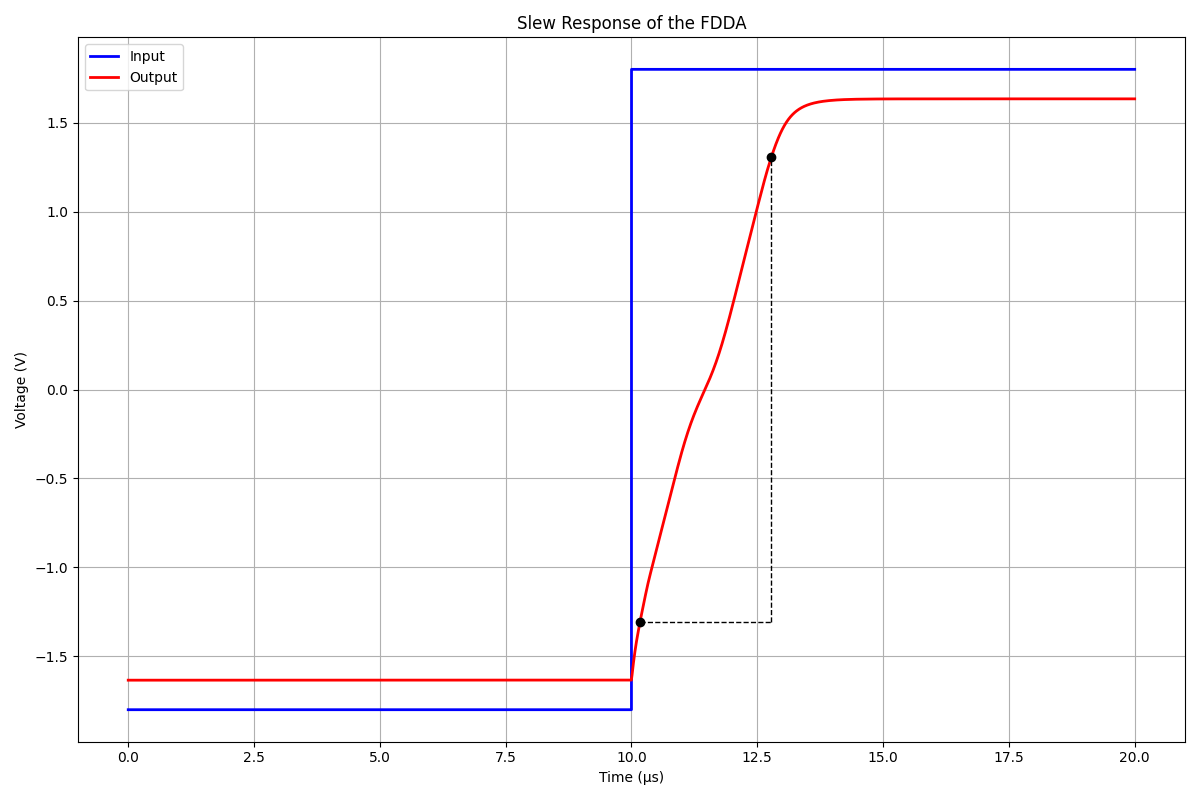
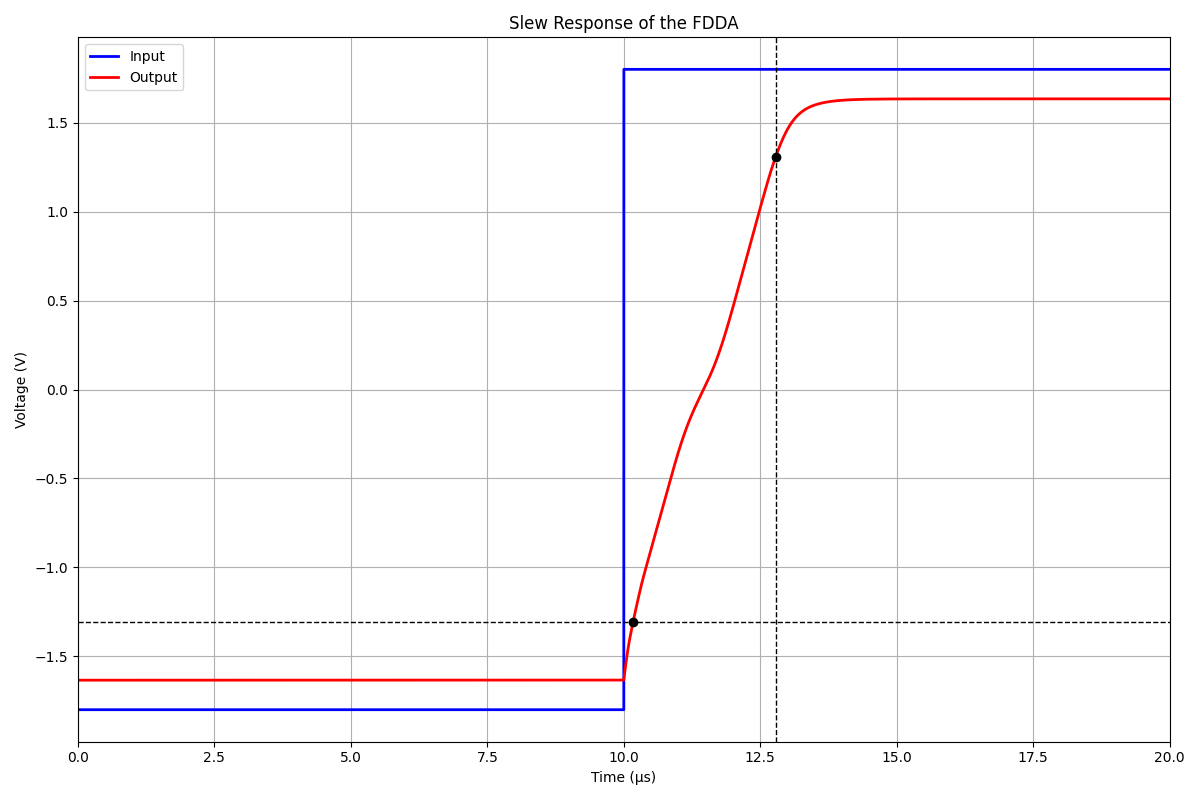
Adding noise spectrum simulations

diff --git a/Complete Framework/FDDA_CMFB/Final_Simulation/results.py b/Complete Framework/FDDA_CMFB/Final_Simulation/results.py
@@ -239,15 +239,16 @@ def runsim_SLEW(measurement_results):
     ax.set_xlabel('Time (μs)')
     ax.set_ylabel('Voltage (V)')
     ax.grid(True, which="both", ls="-")
-    ax.scatter([t_10*1e6, t_90*1e6], [v_10, v_90], color='black', zorder=5)
 
-    # Draw a line between two points
-    ax.plot([t_10*1e6, t_90*1e6], [v_10, v_10], color='black', linestyle='--', linewidth=1)
-    ax.plot([t_90*1e6, t_90*1e6], [v_10, v_90], color='black', linestyle='--', linewidth=1)
+    ax.scatter([t_10*1e6, t_90*1e6], [v_10, v_90], color='black', zorder=5)
+    ax.axvline(x=t_90*1e6, color='black', linestyle='--', linewidth=1)
+    ax.axhline(y=v_10, color='black', linestyle='--', linewidth=1)
 
     lns = l1 + l2
     labs = [l.get_label() for l in lns]
     ax.legend(lns, labs, loc='best')
+
+    ax.set_xlim(0, 20)
 
     ax.set_title("Slew Response of the FDDA")
     plt.tight_layout()
@@ -352,6 +353,89 @@ def runsim_PSRR(gain_dm_db, measurement_results):
 
     return psrr_db
 
+# =========================
+# Runs the NOISE simulation
+# =========================
+def runsim_NOISE(measurement_results):
+
+    circuit = Circuit('FDDA_CMFB Simulation')
+    circuit.raw_spice ="""
+.lib ../../../../../PDKs/sky130A/libs.tech/combined/sky130.lib.spice tt
+.include fdda_cmfb.spice
+"""
+    circuit.X('X1', 'FDDA', 'V_PP', 'V_PN', 'V_NP', 'V_NN', 'VDD', 'V_CMFB', circuit.gnd, 'V_OP', 'V_ON')
+    circuit.X('X2', 'CMFB', 'V_CMFB', 'V_OP', 'V_ON', circuit.gnd, 'VDD')
+
+    circuit.V('VDD', 'VDD', circuit.gnd, 1.8@u_V)
+
+    circuit.C('LOADP', 'V_OP', circuit.gnd, 2@u_pF)
+    circuit.C('LOADN', 'V_ON', circuit.gnd, 2@u_pF)
+
+    # Series feedback with infinite inductor and parallel feedback with infinite capacitor (to ensure proper DC biasing)
+    circuit.L('LFB1', 'V_PN', 'V_OP', 4@u_GH)
+    circuit.L('LFB2', 'V_NN', 'V_ON', 4@u_GH)
+    circuit.C('CFB1', 'V_PN', circuit.gnd, 4@u_GF)
+    circuit.C('CFB2', 'V_NN', circuit.gnd, 4@u_GF)
+
+    # Define AC Input (Single Source)
+    circuit.V('VPP', 'V_PP', circuit.gnd, 'DC 0.9 AC 1')
+    circuit.V('VNP', 'V_NP', circuit.gnd, 'DC 0.9')
+
+    simulator = circuit.simulator(temperature=27, nominal_temperature=27)
+
+    try:
+        analysis = simulator.noise(
+            output_node='V_OP',
+            ref_node='V_ON',
+            src='VVPP',
+            variation='dec',
+            points=20,
+            start_frequency=0.1@u_Hz, 
+            stop_frequency=100@u_MHz,
+            )
+    except Exception as e:
+        raise e
+
+    measurement_results['Noise_RMS'] = float(analysis.nodes['inoise_total'][0])
+    noise1_plot = simulator.ngspice.plot(simulation=simulator, plot_name='noise1')
+    
+    freq = np.array(noise1_plot['frequency']._data)
+    noise = np.array(noise1_plot['inoise_spectrum']._data)
+
+    noise_1k = np.interp(1e3, freq, noise)  # Noise Input at 1kHz
+
+    measurement_results['Noise_in'] = float(noise_1k)
+
+    # Plot the noise spectrum
+    _, ax = plt.subplots(figsize=(12, 8))
+
+    ax.loglog(freq, noise, color='green', linewidth=2)
+    ax.set_xlabel('Frequency (Hz)')
+    ax.set_ylabel(r'Input-Referred Noise (V/$\sqrt{\mathrm{Hz}}$)')
+
+    ticks = [0.1, 1, 10, 100, 1000, 10000, 100000, 1000000, 10000000, 100000000]
+    labels = ['0.1', '1', '10', '100', '1K', '10K', '100K', '1M', '10M', '100M']
+    ax.xaxis.set_major_locator(FixedLocator(ticks))
+    ax.xaxis.set_major_formatter(FixedFormatter(labels))
+
+    ax.scatter([1e3], [noise_1k], color='black', zorder=5)
+    ax.axvline(x=1e3, color='black', linestyle='--', linewidth=1)
+    ax.axhline(y=noise_1k, color='black', linestyle='--', linewidth=1)
+
+    ax.tick_params(axis='both', which='major', direction='out')
+    ax.tick_params(axis='both', which='minor', direction='out')
+
+    ax.grid(True, axis='both', which='major', linestyle='-')
+    ax.grid(True, axis='both', which='minor', linestyle='--')
+
+    ax.set_xlim(1e-1, 1e8)
+    ax.set_ylim((10**np.floor(np.log10(min(noise))))*0.8, 10**np.ceil(np.log10(noise[0])))
+
+    plt.tight_layout()
+    plt.savefig('NOISE_SPECTRUM.png')
+
+    return
+
 # ========================
 # Runs the CMFB simulation
 # ========================
@@ -454,9 +538,11 @@ def create_Plot(freq, fdda_gain_db, fdda_phase, cmfb_gain_db, cmfb_phase):
     labs = [l.get_label() for l in lns]
     ax.legend(lns, labs, loc='best') 
 
+    ax.set_xlim(1e-1, 1e8)
+
     ax.set_title("Frequency Response Plot of Differential Gain, Phase for FDDA & Loop Gain, Phase for CMFB")
-    plt.savefig('FREQUENCY_RESPONSE.png')
     plt.tight_layout()
+    plt.savefig('FREQUENCY_RESPONSE.png')    
 
 # ===========================================================
 # Top-level function to evaluate a design given the variables
@@ -493,34 +579,39 @@ def evaluate_design(current_params, plots=False):
     
     # Run the AC simulation and measure gain, gain-bandwidth, and phase margin
     fdda_gain_db, fdda_phase, freq = runsim_AC(measurement_results=current_results)
-    specs_met = (current_results['Gain_dB'] > Gain_dc_spec_dB and 
-                 current_results['GBW'] > GBW_spec and 
-                 current_results['PM'] > PM_spec)
+    specs_met = (current_results['Gain_dB'] >= Gain_dc_spec_dB and 
+                 current_results['GBW'] >= GBW_spec and 
+                 current_results['PM'] >= PM_spec)
 
     # Run the SLEW simulation and measure slew rate
     if specs_met:
         runsim_SLEW(measurement_results=current_results)
-        specs_met = (current_results['SR'] > SR_spec)
+        specs_met = (current_results['SR'] >= SR_spec)
 
     # Run the OP simulation and measure power
     if specs_met:
         runsim_OP(measurement_results=current_results)
-        specs_met = (current_results['Power'] < Power_spec)
+        specs_met = (current_results['Power'] <= Power_spec)
 
     # Run the CMRR simulation and measure CMRR
     if specs_met:
         cmrr_db = runsim_CMRR(fdda_gain_db, measurement_results=current_results)
-        specs_met = (current_results['CMRR_dB'] > CMRR_spec_dB)
+        specs_met = (current_results['CMRR_dB'] >= CMRR_spec_dB)
 
     # Run the PSRR simulation and measure PSRR
     if specs_met:
         psrr_db = runsim_PSRR(fdda_gain_db, measurement_results=current_results)
-        specs_met = (current_results['PSRR_dB'] > PSRR_spec_dB)
+        specs_met = (current_results['PSRR_dB'] >= PSRR_spec_dB)
+
+    # Run the Noise simulation and measure input-referred RMS noise voltage
+    if specs_met:
+        runsim_NOISE(measurement_results=current_results)
+        specs_met = (current_results['Noise_in'] <= noise_spec)
 
     # Run the CMFB simulation and measure CMFB loop gain and GBW
     if specs_met:
         cmfb_gain_db, cmfb_phase = runsim_CMFB(measurement_results=current_results)
-        specs_met = (current_results['CMFB GBW'] > GBW_spec * 0.3)
+        specs_met = (current_results['CMFB GBW'] >= GBW_spec * 0.3)
 
     create_Plot(freq, fdda_gain_db, fdda_phase, cmfb_gain_db, cmfb_phase)
 
@@ -561,6 +652,8 @@ if __name__ == "__main__":
         print(f"Power: {results['Power']*1e6:.2f} μW")
         print(f"CMRR @ 1kHz: {results['CMRR_dB']:.2f} dB")
         print(f"PSRR @ 1kHz: {results['PSRR_dB']:.2f} dB")
+        print(f"Input-Referred Noise @ 1kHz: {results['Noise_in']*1e9:.2f} nV/√Hz")
+        print(f"Input-Referred Noise (0.1 Hz to 100 MHz): {results['Noise_RMS']*1e6:.2f} μV RMS")
         print(f"CMFB Loop Gain: {results['CMFB Gain_dB']:.2f} dB")
         print(f"CMFB GBW: {results['CMFB GBW']*1e-6:.2f} MHz")
         print(f"CMFB Phase Margin: {results['CMFB PM']:.2f} degrees")

diff --git a/Complete Framework/FDDA_CMFB/main.py b/Complete Framework/FDDA_CMFB/main.py
@@ -268,9 +268,9 @@ def main():
 
                     cont_bounds[i] = (new_lo, new_hi)
 
-                print(f"  [Bounds Update] New gm_ID search window:")
+                print(f"[Bounds Update] New gm_ID search window:")
                 for i, (lo, hi) in enumerate(cont_bounds[:6]):
-                    print(f"    gm_ID_{i+1}_range = ({lo:.4f}, {hi:.4f})")
+                    print(f"  gm_ID_{i+1}_range = ({lo:.4f}, {hi:.4f})")
 
             # Refill rejected particles with new random particles
             rejected_mask = fitness == np.inf
@@ -471,7 +471,7 @@ def plot_convergence(gbest_history, avg_history):
 
     # Log convergence data
     for i, area in enumerate(gbest_history):
-        logger.info(f"Iteration {i+1}: Global Best Area = {area:.4f} μm², Average Area = {avg_history[i]:.4f} μm²\n")
+        logger.info(f"Iteration {i}: Global Best Area = {area:.4f} μm², Average Area = {avg_history[i]:.4f} μm²\n")
 
     plt.figure(figsize=(12, 5))
     

diff --git a/Complete Framework/FDDA_CMFB/Final_Simulation/params.py b/Complete Framework/FDDA_CMFB/Final_Simulation/params.py
@@ -24,8 +24,8 @@ PM_spec = 60                              # Phase Margin (degrees)
 SR_spec = 1e6                             # Slew Rate (V/s)
 CMRR_spec_dB = 120                        # Common Mode Rejection Ratio (dB)
 PSRR_spec_dB = 60                         # Power Supply Rejection Ratio (dB)
-# noise_spec = 0.05e-6                      # Input Referred Noise (V/√Hz)
-Power_spec = 40e-6                       # Power Consumption (W)
+noise_spec = 250e-9                       # Input Referred Noise (V/√Hz)
+Power_spec = 40e-6                        # Power Consumption (W)
 Area_spec = 5000                          # Area (μm^2)
 
 Gain_dc_spec = 10**(Gain_dc_spec_dB/20)   # Convert dB to V/V
